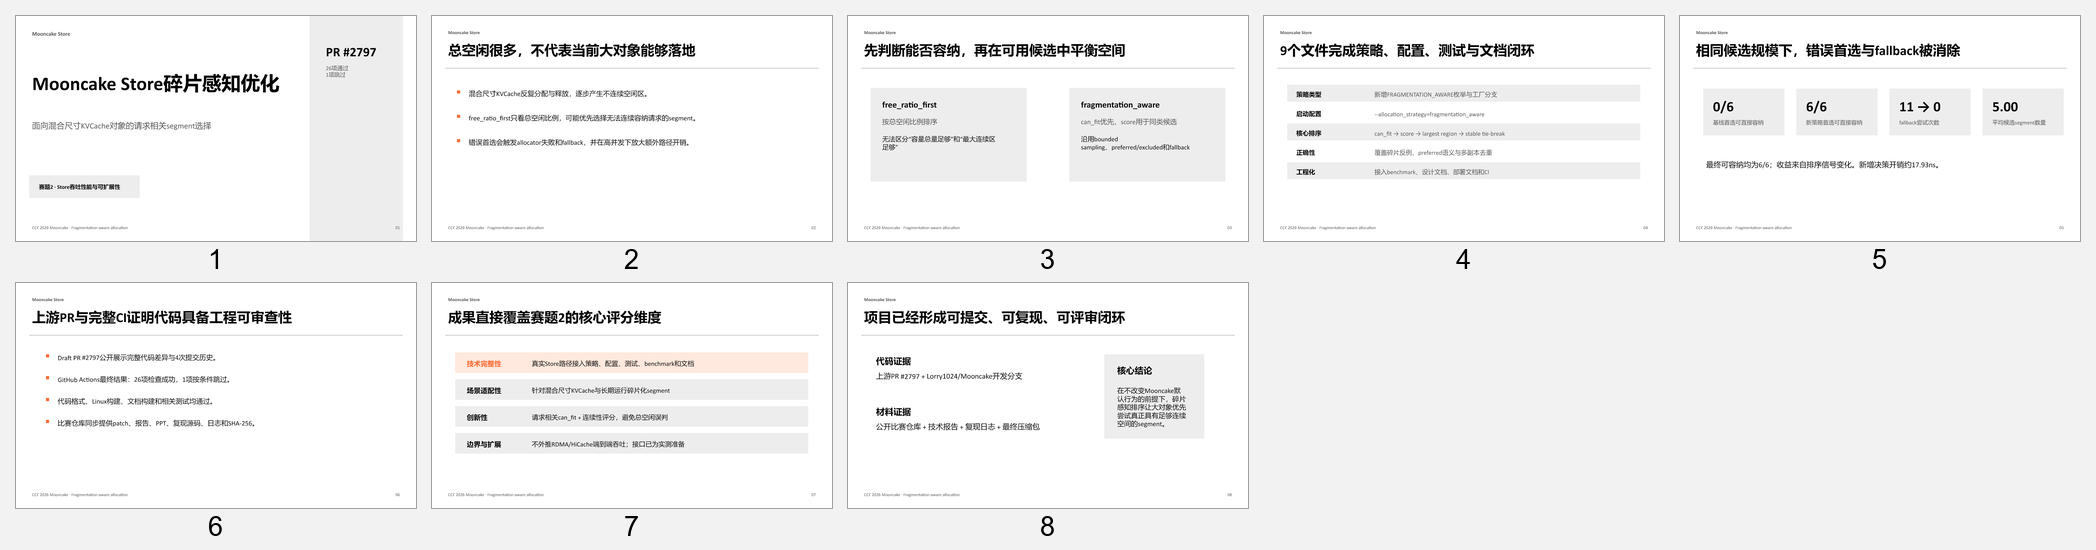
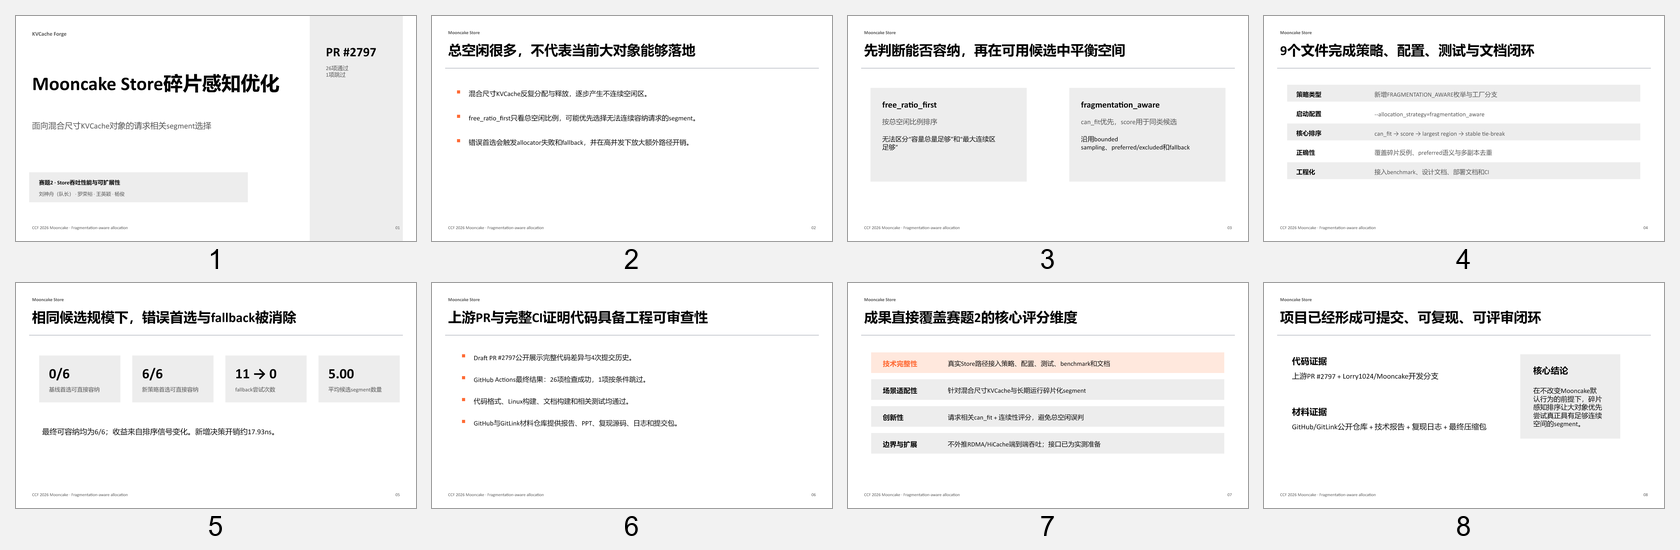
Add team identity and GitLink submission details

diff --git a/report/technical_report.tex b/report/technical_report.tex
@@ -117,20 +117,26 @@
   {\sffamily\bfseries\zihao{2}\color{black}CCF2026开源创新大赛\par}
   \vspace{0.35cm}
   {\sffamily\bfseries\zihao{3}\color{black}Mooncake赛题2初赛技术报告\par}
-  \vspace{2.0cm}
+  \vspace{1.2cm}
   {\bfseries\zihao{1}Mooncake Store碎片感知分配优化\par}
   \vspace{0.55cm}
   {\Large Fragmentation-Aware Allocation for Mooncake Store\par}
-  \vspace{2.2cm}
+  \vspace{1.2cm}
+  {\small
+  \renewcommand{\arraystretch}{1.08}
   \begin{tabular}{|>{\sffamily\bfseries\centering\arraybackslash}p{3.2cm}|>{\raggedright\arraybackslash}p{9.3cm}|}
     \hline
     参赛方向 & 赛题2：优化Mooncake Store吞吐性能、高可用功能和可扩展性，优化SGLang HiCache+Mooncake Store性能 \\ \hline
     作品名称 & Mooncake Store碎片感知分配策略 \\ \hline
-    参赛仓库 & \url{https://github.com/Lorry1024/ccf2026-mooncake-fragmentation-aware} \\ \hline
+    队伍名称 & KVCache Forge \\ \hline
+    队伍成员 & 刘神舟（队长）、罗荣裕、王英颖、杨俊 \\ \hline
+    GitHub仓库 & \url{https://github.com/Lorry1024/ccf2026-mooncake-fragmentation-aware} \\ \hline
+    GitLink仓库 & \url{https://gitlink.org.cn/liushenzhou/ccf2026-mooncake-fragmentation-aware} \\ \hline
     上游PR & \url{https://github.com/kvcache-ai/Mooncake/pull/2797} \\ \hline
     PR头提交 & \artifact{0123fa1 Fix fragmentation-aware allocation test setup} \\ \hline
-    报告日期 & 2026年7月9日 \\ \hline
+    报告日期 & 2026年7月10日 \\ \hline
   \end{tabular}
+  }
   \vfill
   {\small 本报告与仓库中的patch、复现实验、验证日志和展示PPT共同构成初赛提交材料。\par}
 \end{titlepage}
@@ -744,7 +750,7 @@ Mooncake上游draft PR状态如表\ref{tab:ci}所示。
 
 赛题评分中的技术完整性不仅取决于代码数量，还取决于问题、实现和验证是否闭环。本项目的证据链可以按四层理解。第一层是问题证据：最小反例和专题模型表明总空闲空间与最大连续空闲区域并不等价。第二层是实现证据：PR在策略类型、配置解析、工厂创建、核心排序、测试、benchmark和文档路径中完成正式接入。第三层是正确性证据：定向单元测试覆盖碎片化选择与preferred语义，上游CI覆盖代码格式、构建、文档和回归测试。第四层是效果证据：确定性仿真在相同候选规模下比较首选成功、fallback次数和决策开销，并公开源码和日志供复算。
 
-开源规范性则通过公开材料仓库、Mooncake fork分支和上游PR共同体现。比赛材料仓库负责托管中文报告、PPT、复现程序、日志和提交压缩包；Mooncake fork保留完整开发分支；上游PR\#2797展示代码差异、提交历史和GitHub Actions结果。这三者分别回答“成果如何阅读”“代码如何复核”和“上游工程是否接受验证”三个问题。相比只提交一个patch文件，该组织方式更便于评审者追踪来源、核对许可证并复现关键结论。
+开源规范性则通过公开材料仓库、Mooncake fork分支和上游PR共同体现。KVCache Forge队伍在GitHub和GitLink均设置了公开比赛材料入口：GitHub仓库用于持续维护中文报告、PPT、复现程序、日志和提交压缩包，GitLink仓库用于赛事平台关联与队伍材料展示；Mooncake fork保留完整开发分支；上游PR\#2797展示代码差异、提交历史和GitHub Actions结果。这些入口分别回答“成果如何阅读”“赛事材料从何访问”“代码如何复核”和“上游工程是否接受验证”等问题。相比只提交一个patch文件，该组织方式更便于评审者追踪来源、核对许可证并复现关键结论。
 
 创新性主要体现在把碎片形态引入请求相关的候选排序，而不是简单新增一个静态容量阈值。\artifact{can\_fit}把请求大小与最大连续空闲区域直接关联，综合score再在同一可容纳状态内兼顾连续性与空间均衡；同时采用显式开关、有界采样和allocator最终确认，将算法收益与工程风险控制结合起来。该创新边界清楚：它不是全局内存整理器，也不修改Mooncake协议，而是对Store主路径中可独立评审、可低风险合入的决策环节进行针对性优化。
 
@@ -850,7 +856,8 @@ g++ -std=c++17 -O2 repro/topic_aligned_store_scalability_sim.cpp -o topic_aligne
 \begin{itemize}
   \item Mooncake上游仓库：\href{https://github.com/kvcache-ai/Mooncake}{kvcache-ai/Mooncake}
   \item 本项目Mooncake PR：\href{https://github.com/kvcache-ai/Mooncake/pull/2797}{kvcache-ai/Mooncake\#2797}
-  \item 比赛材料仓库：\href{https://github.com/Lorry1024/ccf2026-mooncake-fragmentation-aware}{Lorry1024/ccf2026-mooncake-fragmentation-aware}
+  \item GitHub比赛材料仓库：\href{https://github.com/Lorry1024/ccf2026-mooncake-fragmentation-aware}{Lorry1024/ccf2026-mooncake-fragmentation-aware}
+  \item GitLink比赛材料仓库：\href{https://gitlink.org.cn/liushenzhou/ccf2026-mooncake-fragmentation-aware}{liushenzhou/ccf2026-mooncake-fragmentation-aware}
   \item Mooncake fork分支：\href{https://github.com/Lorry1024/Mooncake/tree/ccf-fragmentation-aware-allocation}{Lorry1024/Mooncake:ccf-fragmentation-aware-allocation}
 \end{itemize}
 

diff --git a/demo_points.md b/demo_points.md
@@ -2,23 +2,25 @@
 
 ## 必须讲清楚
 
-1. 作品对应Mooncake赛题2，切入点是Mooncake Store Master侧segment分配策略。
-2. 总空闲空间不等于最大连续空闲区域，`free_ratio_first`可能误选无法容纳大对象的segment。
-3. `fragmentation_aware`先比较`can_fit`，再比较连续性和总空闲比例，并保留bounded sampling与fallback。
-4. 实现已经接入策略枚举、配置、工厂、测试、benchmark和文档，而不是离线原型。
-5. PR#2797最终CI为26项成功、1项跳过。
-6. 确定性仿真中首选成功由0/6提升到6/6，fallback由11降到0，平均候选数量保持5.00。
-7. 当前结果是策略层证据，不宣称真实RDMA或SGLang HiCache端到端吞吐。
+1. 队伍名称为KVCache Forge，成员为刘神舟、罗荣裕、王英颖和杨俊。
+2. 作品对应Mooncake赛题2，切入点是Mooncake Store Master侧segment分配策略。
+3. 总空闲空间不等于最大连续空闲区域，`free_ratio_first`可能误选无法容纳大对象的segment。
+4. `fragmentation_aware`先比较`can_fit`，再比较连续性和总空闲比例，并保留bounded sampling与fallback。
+5. 实现已经接入策略枚举、配置、工厂、测试、benchmark和文档，而不是离线原型。
+6. PR#2797最终CI为26项成功、1项跳过。
+7. 确定性仿真中首选成功由0/6提升到6/6，fallback由11降到0，平均候选数量保持5.00。
+8. 当前结果是策略层证据，不宣称真实RDMA或SGLang HiCache端到端吞吐。
 
 ## 录制前页面
 
-1. 更新版PPT第1页。
+1. 最终版PPT第1页。
 2. PR#2797顶部。
 3. PR页面底部“All checks have passed”。
 4. PR的`Files changed`页面。
 5. 比赛材料GitHub仓库主页。
-6. 已切换到仓库根目录的终端。
-7. 技术报告“验证与效果”章节。
+6. 比赛材料GitLink仓库主页。
+7. 已切换到仓库根目录的终端。
+8. 技术报告“验证与效果”章节。
 
 ## 画面检查
 

diff --git a/README.md b/README.md
@@ -2,6 +2,14 @@
 
 本仓库是CCF2026开源创新大赛Mooncake赛题的初赛提交材料仓库。项目选择Mooncake赛题2，聚焦Mooncake Store在混合大小KVCache对象场景下的分配稳定性与可扩展性优化。
 
+## 参赛队伍
+
+| 项目 | 信息 |
+| --- | --- |
+| 队伍名称 | KVCache Forge |
+| 队长 | 刘神舟 |
+| 队员 | 罗荣裕、王英颖、杨俊 |
+
 ## 项目定位
 
 本项目的核心贡献是在Mooncake Store中新增一种可选的`fragmentation_aware`分配策略。该策略不改变默认行为，不重写Mooncake Store协议，不修改SGLang HiCache接口，而是在Master选择segment时增加“最大连续空闲区域”这一信号，避免只按总空闲比例排序时优先选中已经碎片化、无法容纳当前大对象的segment。
@@ -17,7 +25,8 @@
 
 ## 公开仓库与PR
 
-- 比赛材料仓库：`https://github.com/Lorry1024/ccf2026-mooncake-fragmentation-aware`
+- GitHub比赛材料仓库：`https://github.com/Lorry1024/ccf2026-mooncake-fragmentation-aware`
+- GitLink比赛材料仓库：`https://gitlink.org.cn/liushenzhou/ccf2026-mooncake-fragmentation-aware`
 - Mooncake fork分支：`https://github.com/Lorry1024/Mooncake/tree/ccf-fragmentation-aware-allocation`
 - Mooncake draft PR：`https://github.com/kvcache-ai/Mooncake/pull/2797`
 
@@ -46,8 +55,8 @@
 | 评审指南 | `REVIEW_GUIDE.md` | 建议评审阅读顺序 |
 | 技术报告源码 | `report/technical_report.tex` | XeLaTeX报告源码 |
 | 技术报告PDF | `report/CCF2026_Mooncake_FragmentationAware_Technical_Report.pdf` | 由LaTeX编译生成 |
-| 展示PPT | `slides/Mooncake_FragmentationAware_初赛展示_更新版.pptx` | 初赛展示材料 |
-| 提交压缩包 | `release/CCF2026_Mooncake_FragmentationAware_initial_20260707.zip` | 平台提交候选包，视频链接补齐后需重新生成 |
+| 展示PPT | `slides/Mooncake_FragmentationAware_初赛展示_最终版.pptx` | 初赛展示材料 |
+| 提交压缩包 | `release/CCF2026_Mooncake_FragmentationAware_initial_20260710.zip` | 平台提交候选包，视频链接补齐后需重新生成 |
 
 ## 已完成的工作
 

diff --git a/SUBMISSION.md b/SUBMISSION.md
@@ -1,5 +1,13 @@
 # 初赛提交说明
 
+## 队伍信息
+
+| 项目 | 信息 |
+| --- | --- |
+| 队伍名称 | KVCache Forge |
+| 队长 | 刘神舟 |
+| 队员 | 罗荣裕、王英颖、杨俊 |
+
 ## 提交模式建议
 
 建议采用“文件+链接”的提交方式。平台提交时同时提供公开GitHub仓库、Mooncake PR链接和最终压缩包。这样既满足比赛“成果必须托管至GitHub平台开源”的要求，也便于评委直接查看代码、文档、PR和CI状态。
@@ -18,7 +26,8 @@
 
 | 类型 | 链接 |
 | --- | --- |
-| 比赛材料仓库 | `https://github.com/Lorry1024/ccf2026-mooncake-fragmentation-aware` |
+| GitHub比赛材料仓库 | `https://github.com/Lorry1024/ccf2026-mooncake-fragmentation-aware` |
+| GitLink比赛材料仓库 | `https://gitlink.org.cn/liushenzhou/ccf2026-mooncake-fragmentation-aware` |
 | Mooncake fork分支 | `https://github.com/Lorry1024/Mooncake/tree/ccf-fragmentation-aware-allocation` |
 | Mooncake draft PR | `https://github.com/kvcache-ai/Mooncake/pull/2797` |
 
@@ -36,7 +45,7 @@
 | 比赛要求 | 本仓库对应材料 | 当前状态 |
 | --- | --- | --- |
 | 源代码 | Mooncake fork分支、PR#2797、`mooncake_fragmentation_aware_pr_2797_0123fa1.patch` | 已完成 |
-| 方案文档或PPT | `report/CCF2026_Mooncake_FragmentationAware_Technical_Report.pdf`、`slides/Mooncake_FragmentationAware_初赛展示_更新版.pptx` | 已完成 |
+| 方案文档或PPT | `report/CCF2026_Mooncake_FragmentationAware_Technical_Report.pdf`、`slides/Mooncake_FragmentationAware_初赛展示_最终版.pptx` | 已完成 |
 | 5分钟内作品展示视频 | 待录制，录制后补充公开链接 | 未完成 |
 | 测试和benchmark说明 | `EVALUATION.md`、`testing.md`、`logs/`、`repro/` | 已完成 |
 | 公开GitHub托管 | GitHub材料仓库和Mooncake fork | 已完成 |
@@ -44,7 +53,7 @@
 ## 建议平台提交文本
 
 ```text
-本作品面向CCF2026开源创新大赛Mooncake赛题2，围绕Mooncake Store在混合大小KVCache对象场景下的分配稳定性进行优化。项目新增可选的fragmentation_aware分配策略，在保持默认random策略不变的前提下，将最大连续空闲区域纳入segment排序，使Master优先选择能够直接容纳当前请求的segment，降低碎片化场景下的大对象失败尝试和fallback压力。
+本作品由KVCache Forge队伍完成，面向CCF2026开源创新大赛Mooncake赛题2，围绕Mooncake Store在混合大小KVCache对象场景下的分配稳定性进行优化。项目新增可选的fragmentation_aware分配策略，在保持默认random策略不变的前提下，将最大连续空闲区域纳入segment排序，使Master优先选择能够直接容纳当前请求的segment，降低碎片化场景下的大对象失败尝试和fallback压力。
 
 源代码已提交至公开GitHub仓库，并以Mooncake draft PR#2797形式提交给上游项目。当前PR头提交0123fa1已通过GitHub Actions，结果为26个检查成功、1个检查跳过。提交包包含技术报告、设计文档、测试说明、复现实验源码、验证日志、patch文件和展示PPT。当前阶段不宣称完成真实RDMA集群或SGLang HiCache端到端压测，相关内容作为后续工作规划。
 ```

diff --git a/demo_script.md b/demo_script.md
@@ -22,13 +22,14 @@
 
 按以下顺序预先打开窗口或标签页，录制时只做切换，不临时输入网址：
 
-1. 更新版PPT，停在封面。
+1. 最终版PPT，停在封面。
 2. 上游PR：`https://github.com/kvcache-ai/Mooncake/pull/2797`。
 3. PR的`Checks`或页面底部“All checks have passed”区域。
 4. PR的`Files changed`页面，提前定位`allocation_strategy.h`和测试文件。
-5. 比赛材料仓库：`https://github.com/Lorry1024/ccf2026-mooncake-fragmentation-aware`。
-6. 终端，工作目录切换到比赛材料仓库根目录。
-7. 技术报告PDF，提前定位“验证与效果”章节。
+5. GitHub比赛材料仓库：`https://github.com/Lorry1024/ccf2026-mooncake-fragmentation-aware`。
+6. GitLink比赛材料仓库：`https://gitlink.org.cn/liushenzhou/ccf2026-mooncake-fragmentation-aware`。
+7. 终端，工作目录切换到比赛材料仓库根目录。
+8. 技术报告PDF，提前定位“验证与效果”章节。
 
 录制前关闭邮件、聊天软件、下载提示和系统通知，检查GitHub页面上是否显示私人邮箱、访问令牌、内网地址或其他不应公开的信息。所有命令至少预演一遍；若现场编译耗时或环境不稳定，可以展示已生成日志，但应明确说明日志来自仓库中的可复现程序。
 
@@ -40,7 +41,7 @@
 
 讲稿：
 
-大家好，我们的作品是“Mooncake Store碎片感知优化”，对应CCF 2026开源创新大赛Mooncake赛题2。我们没有修改传输协议，而是优化Mooncake Store Master侧的segment分配决策，让混合尺寸KVCache对象优先尝试真正具有足够连续空间的位置。
+大家好，我们是KVCache Forge队伍，成员包括刘神舟、罗荣裕、王英颖和杨俊。我们的作品是“Mooncake Store碎片感知优化”，对应CCF 2026开源创新大赛Mooncake赛题2。我们没有修改传输协议，而是优化Mooncake Store Master侧的segment分配决策，让混合尺寸KVCache对象优先尝试真正具有足够连续空间的位置。
 
 ### 0:25-0:55 问题背景
 

diff --git a/final_report.md b/final_report.md
@@ -1,5 +1,13 @@
 # 初赛总结报告
 
+## 队伍信息
+
+- 队伍名称：KVCache Forge
+- 队长：刘神舟
+- 队员：罗荣裕、王英颖、杨俊
+- GitHub仓库：`https://github.com/Lorry1024/ccf2026-mooncake-fragmentation-aware`
+- GitLink仓库：`https://gitlink.org.cn/liushenzhou/ccf2026-mooncake-fragmentation-aware`
+
 ## 项目概述
 
 本项目面向CCF2026开源创新大赛Mooncake赛题2，完成了Mooncake Store碎片感知分配策略设计、实现、测试和提交材料整理。项目核心成果是新增`fragmentation_aware`分配策略，在混合大小KVCache对象场景下，优先选择最大连续空闲区域能够满足当前请求的segment。

diff --git a/REVIEW_GUIDE.md b/REVIEW_GUIDE.md
@@ -9,13 +9,14 @@
 5. `EVALUATION.md`：查看测试、仿真和边界说明。
 6. `mooncake_fragmentation_aware_pr_2797_0123fa1.patch`：查看精确代码diff。
 7. `repro/`和`logs/`：复现实验和验证日志。
-8. `slides/Mooncake_FragmentationAware_初赛展示_更新版.pptx`：查看答辩展示材料。
+8. `slides/Mooncake_FragmentationAware_初赛展示_最终版.pptx`：查看答辩展示材料。
 
 ## 快速链接
 
 | 类型 | 链接 |
 | --- | --- |
-| 比赛材料仓库 | `https://github.com/Lorry1024/ccf2026-mooncake-fragmentation-aware` |
+| GitHub比赛材料仓库 | `https://github.com/Lorry1024/ccf2026-mooncake-fragmentation-aware` |
+| GitLink比赛材料仓库 | `https://gitlink.org.cn/liushenzhou/ccf2026-mooncake-fragmentation-aware` |
 | Mooncake draft PR | `https://github.com/kvcache-ai/Mooncake/pull/2797` |
 | Mooncake fork分支 | `https://github.com/Lorry1024/Mooncake/tree/ccf-fragmentation-aware-allocation` |
 

diff --git a/PACKAGE_MANIFEST.md b/PACKAGE_MANIFEST.md
@@ -24,7 +24,8 @@
 | `mooncake_fragmentation_aware_pr_2797_0123fa1.patch` | 当前PR对应补丁 |
 | `repro/` | 可独立编译的复现实验源码 |
 | `logs/` | 验证日志 |
-| `slides/` | 初赛展示PPT |
+| `slides/Mooncake_FragmentationAware_初赛展示_最终版.pptx` | 初赛展示PPT最终版 |
+| `slides/qa/` | PPT逐页预览和布局检查结果 |
 | `report/` | LaTeX技术报告源码和PDF |
 | `release/` | 平台提交压缩包和校验文件 |
 

diff --git a/GITHUB_RELEASE_GUIDE.md b/GITHUB_RELEASE_GUIDE.md
@@ -16,7 +16,7 @@
 1. 确认`README.md`为中文入口文档。
 2. 确认`SUBMISSION.md`中的链接正确。
 3. 确认`report/CCF2026_Mooncake_FragmentationAware_Technical_Report.pdf`可打开。
-4. 确认`slides/Mooncake_FragmentationAware_初赛展示_更新版.pptx`存在。
+4. 确认`slides/Mooncake_FragmentationAware_初赛展示_最终版.pptx`存在。
 5. 确认`mooncake_fragmentation_aware_pr_2797_0123fa1.patch`存在。
 6. 确认`release/`中的压缩包和SHA256已更新。
 7. 视频录制完成后，补充视频链接并重新打包。